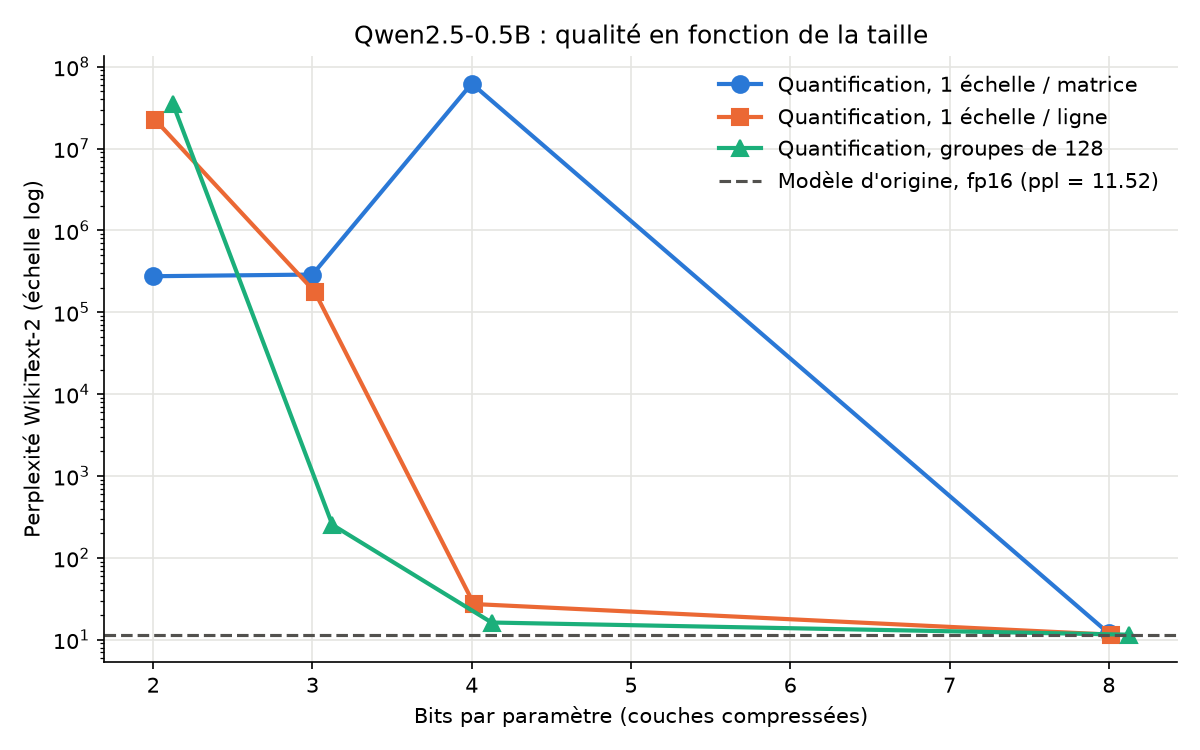
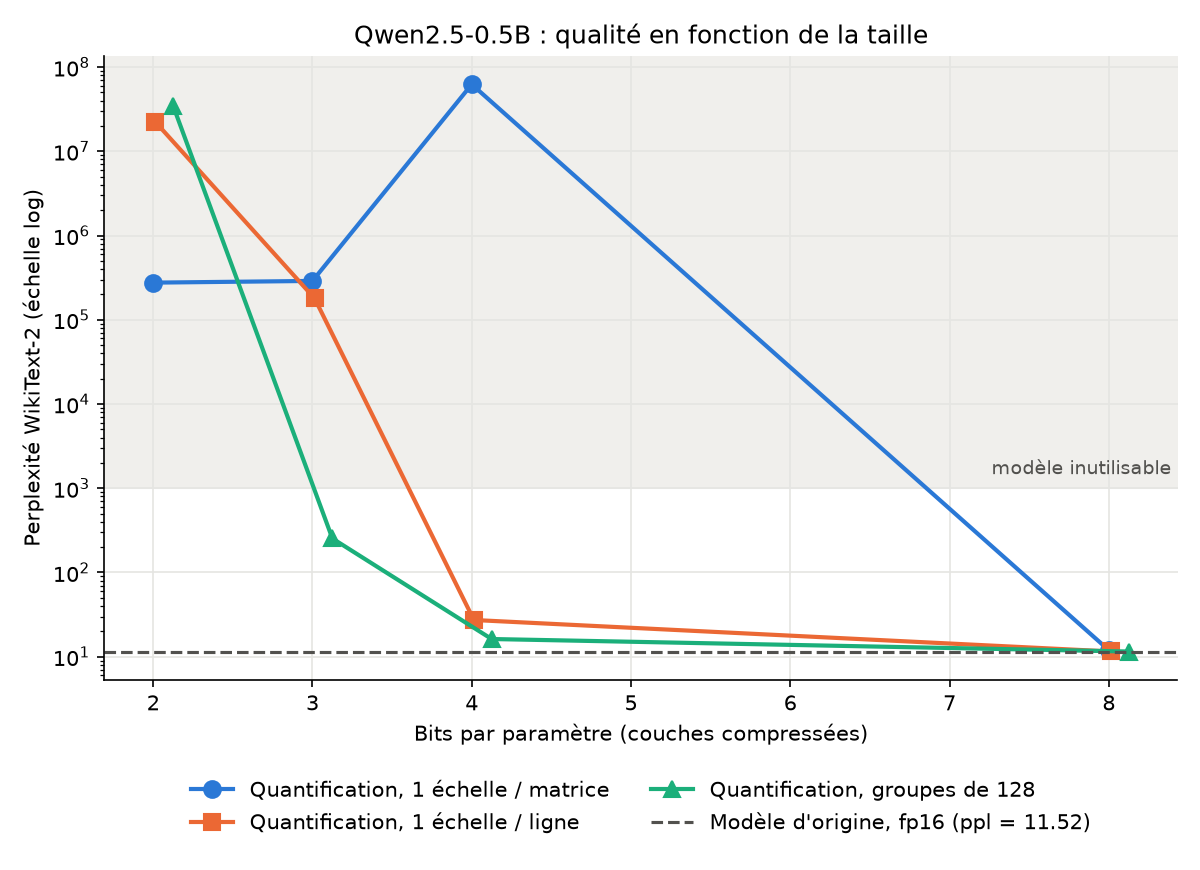
README : question, méthode, résultats et analyse
- résumé en anglais, méthode, résultats de la quantification,
  analyse des poids, échauffement MNIST, limites, reproduction
- courbe : zone « modèle inutilisable » au-delà d'une perplexité de 1 000

diff --git a/scripts/plot.py b/scripts/plot.py
@@ -18,6 +18,7 @@ SERIES = [
     ("quant", "128", "Quantification, groupes de 128", "#1baf7a", "^"),
     ("lowrank", None, "Rang faible (SVD tronquée)", "#eda100", "D"),
 ]
+UNUSABLE_PPL = 1000
 
 
 def main():
@@ -30,7 +31,7 @@ def main():
              if not os.path.basename(f).startswith("quick_")]
     df = pd.concat([pd.read_csv(f, dtype={"granularity": str}) for f in files])
 
-    fig, ax = plt.subplots(figsize=(8, 5))
+    fig, ax = plt.subplots(figsize=(8, 5.8))
     for method, gran, label, color, marker in SERIES:
         rows = df[df.method == method]
         if gran is not None:
@@ -47,13 +48,21 @@ def main():
         ax.axhline(ppl, color="#52514e", linestyle="--", linewidth=1.5,
                    label=f"Modèle d'origine, fp16 (ppl = {ppl:.2f})")
 
+    # Au-delà de ~1000, le modèle ne produit plus que du bruit : les écarts
+    # entre configurations n'y ont plus de sens.
     ax.set_yscale("log")
+    ymin, ymax = ax.get_ylim()
+    ax.axhspan(UNUSABLE_PPL, ymax, color="#f0efec", zorder=0)
+    ax.set_ylim(ymin, ymax)
+    ax.text(ax.get_xlim()[1], UNUSABLE_PPL * 1.3, "modèle inutilisable ",
+            color="#52514e", fontsize=9, ha="right", va="bottom")
+
     ax.set_xlabel("Bits par paramètre (couches compressées)")
     ax.set_ylabel("Perplexité WikiText-2 (échelle log)")
     ax.set_title("Qwen2.5-0.5B : qualité en fonction de la taille")
     ax.grid(True, which="major", color="#e5e5e2", linewidth=0.8)
     ax.spines[["top", "right"]].set_visible(False)
-    ax.legend(frameon=False)
+    ax.legend(frameon=False, loc="upper center", bbox_to_anchor=(0.5, -0.13), ncol=2)
     fig.tight_layout()
 
     os.makedirs(os.path.dirname(args.out), exist_ok=True)

diff --git a/README.md b/README.md
@@ -1,0 +1,128 @@
+# Compresser un petit LLM : quantification ou rang faible ?
+
+> **In English.** How much quality does a small LLM (Qwen2.5-0.5B) lose when its weights are compressed? I implemented two methods from scratch, symmetric quantization (8 to 2 bits, per tensor / row / group of 128) and truncated-SVD low-rank approximation, and measured WikiText-2 perplexity. Quantization with groups of 128 is nearly lossless at 8 bits and remains usable at 4 bits (perplexity 16.2 vs 11.5); one scale per matrix fails because LLM weights contain extreme outliers (up to 64 standard deviations). The weight spectra suggest that low-rank approximation will degrade much faster: most MLP layers are almost as "flat" as a random matrix. *Work in progress: the low-rank run on Qwen is next.*
+
+## La question
+
+Un LLM stocke ses poids en 16 bits. Pour le faire tenir sur une machine plus modeste, on peut :
+
+- **quantifier** : garder tous les poids, mais chacun sur moins de bits (8, 4, 3 ou 2) ;
+- **approximer par une matrice de rang faible** : garder des poids en 16 bits, mais beaucoup moins nombreux.
+
+**À taille égale, quelle méthode abîme le moins le modèle, et pourquoi ?**
+
+## Méthode
+
+| Élément | Choix |
+| --- | --- |
+| Modèle | [Qwen2.5-0.5B](https://huggingface.co/Qwen/Qwen2.5-0.5B) en fp16 (494 M de paramètres, 24 blocs) |
+| Couches compressées | les 7 matrices de chaque bloc (`q`, `k`, `v`, `o`, `gate`, `up`, `down`), soit 168 matrices ; embeddings non touchés |
+| Qualité | perplexité sur WikiText-2 (partie test, 299 078 tokens), fenêtre glissante de 2 048 tokens avec un pas de 512 |
+| Taille | bits par paramètre des couches compressées, échelles de quantification comprises |
+
+**Quantification symétrique** ([src/quant.py](src/quant.py)). Chaque poids est remplacé par le point le plus proche d'une grille de 2^b valeurs :
+
+$$q_{\max} = 2^{b-1} - 1, \qquad s = \frac{\max |w_{\text{groupe}}|}{q_{\max}}, \qquad \hat{w} = s \cdot \operatorname{clamp}\left(\operatorname{round}(w / s),\, -q_{\max} - 1,\, q_{\max}\right)$$
+
+L'échelle s est calculée pour toute la matrice (`tensor`), pour chaque ligne (`row`) ou pour chaque groupe de 128 poids consécutifs (`128`). Chaque échelle coûte 16 bits : b + 16/128 bits par poids pour des groupes de 128.
+
+**Rang faible** ([src/lowrank.py](src/lowrank.py)). Chaque matrice W (m × n) est remplacée par sa SVD tronquée aux r plus grandes valeurs singulières, qui coûte r(m + n) paramètres au lieu de mn. Le rang est choisi pour garder une fraction `rank_ratio` des paramètres : r = ⌊rank_ratio · mn / (m + n)⌋.
+
+La compression est **simulée** : les poids compressés sont reconvertis en fp16 pour l'évaluation, et la taille gagnée est calculée à part ([src/budget.py](src/budget.py)).
+
+## Résultats
+
+### Quantification
+
+![Perplexité en fonction des bits par paramètre](figures/ppl_vs_bits.png)
+
+Perplexité WikiText-2 (modèle d'origine : **11,52**) :
+
+| Bits | 1 échelle / matrice | 1 échelle / ligne | Groupes de 128 |
+| --- | --- | --- | --- |
+| 8 | 11,96 | 11,54 | **11,53** |
+| 4 | 6,2 × 10⁷ | 27,3 | **16,2** |
+| 3 | 2,9 × 10⁵ | 1,8 × 10⁵ | **253** |
+| 2 | 2,8 × 10⁵ | 2,2 × 10⁷ | 3,5 × 10⁷ |
+
+Au-delà d'une perplexité d'environ 1 000, le modèle ne produit plus que du bruit et les écarts entre configurations n'ont plus de sens.
+
+### Poids extrêmes
+
+![Rapport max|w| / écart-type par couche](figures/outliers.png)
+
+Pour chaque matrice, le rapport entre le plus grand poids (en valeur absolue) et l'écart-type des poids. Une matrice gaussienne de même taille donne 4,7. Dans Qwen, les couches MLP et `o_proj` sont entre 15 et 45, avec un maximum de 64 (bloc 8, `q_proj`) ; `k_proj` et `v_proj` restent entre 5 et 12.
+
+### Spectre des valeurs singulières
+
+![Spectre des valeurs singulières](figures/spectrum.png)
+
+Valeurs singulières σᵢ / σ₁, triées, pour trois types de couches au début, au milieu et à la fin du modèle, comparées à une matrice aléatoire de même forme. Part de l'énergie (Σσ²) conservée par la SVD tronquée avec `rank_ratio` = 0,5 :
+
+| Couche | Bloc 0 | Bloc 12 | Bloc 23 | Matrice aléatoire |
+| --- | --- | --- | --- | --- |
+| `q_proj` | 99 % | 83 % | 89 % | 62 % |
+| `v_proj` | 76 % | 57 % | 78 % | 59 % |
+| `down_proj` | 61 % | 72 % | 66 % | 60 % |
+
+### Échauffement : un MLP sur MNIST
+
+Avant le LLM, les deux fonctions ont été testées sur un petit réseau (784 → 256 → 256 → 10, précision de référence 97,6 %), à taille égale :
+
+| Bits par poids | Quantification (groupes de 16) | Rang faible |
+| --- | --- | --- |
+| 8 | 97,6 % | 75,4 % (`rank_ratio` = 0,5) |
+| 4 | 97,5 % | 32,5 % (`rank_ratio` = 0,25) |
+
+## Ce qu'on observe et pourquoi
+
+**En bref : la quantification par petits groupes est la méthode robuste ; le rang faible devrait s'effondrer, car l'information des poids est répartie sur presque toutes les directions.**
+
+**Quantification.** Le modèle ne perd presque rien en 8 bits (11,53 contre 11,52). En 4 bits, tout dépend de la granularité : 16,2 avec des groupes de 128, alors qu'une seule échelle par matrice détruit le modèle. La cause : des poids extrêmes, jusqu'à 64 écarts-types dans Qwen, qui élargissent les crans de tout leur groupe. Des groupes plus petits limitent les poids pénalisés. En 3 bits, même les groupes de 128 ne suffisent plus.
+
+**Rang faible.** Les spectres de `down_proj` et `v_proj` sont presque aussi plats que celui d'une matrice aléatoire : toutes les directions portent une information comparable, et en supprimer devrait coûter cher, surtout dans le MLP, qui représente environ 88 % des poids. `q_proj`, nettement de rang faible, fait exception. Sur MNIST, le rang faible s'effondrait déjà bien plus vite que la quantification ; la grille sur Qwen confirmera ou non.
+
+**Deux erreurs de nature différente.** La quantification ajoute un petit bruit à tous les poids, que le modèle tolère tant qu'il reste assez de bits ; le rang faible supprime des directions entières.
+
+## Limites
+
+- **Compression simulée** : les poids sont reconvertis en fp16 ; on mesure la qualité, pas le gain réel en mémoire ni en vitesse.
+- **Une seule mesure de qualité** : la perplexité sur WikiText-2, pas les performances sur des tâches.
+- **Un seul modèle**, de petite taille : les conclusions peuvent différer sur des modèles plus gros.
+- **Méthodes de base** : arrondi au plus proche, sans calibration sur des données ni correction d'erreur.
+- **Perplexité non directement comparable aux articles** : la fenêtre glissante donne plus de contexte à chaque token qu'une évaluation par fenêtres disjointes, donc une perplexité plus basse.
+
+## En cours
+
+- [x] Quantification : grille complète sur Qwen
+- [x] Analyse des poids : valeurs extrêmes et spectre
+- [ ] Rang faible : grille `rank_ratio` ∈ {0,9 ; 0,75 ; 0,5 ; 0,25} sur Qwen, sur le même graphique
+
+## Reproduire
+
+```bash
+pip install -r requirements.txt
+pytest                                   # tests des deux fonctions de compression
+python -m scripts.mnist_warmup           # échauffement MNIST (CPU, ~1 min)
+python -m scripts.analyze_weights        # poids extrêmes et spectre (CPU, ~1 min)
+python -m scripts.run_quant              # grille de quantification (GPU, ~1 h sur T4)
+python -m scripts.plot                   # courbe à partir de results/*.csv
+```
+
+Sur Google Colab (GPU T4 gratuit) : [notebooks/colab.ipynb](notebooks/colab.ipynb). Les résultats sont écrits sur Google Drive au fur et à mesure, et une expérience déjà présente dans le CSV n'est pas relancée.
+
+## Structure
+
+```
+src/
+  quant.py          quantize() : quantification symétrique
+  lowrank.py        lowrank_approx() : SVD tronquée
+  apply.py          applique une fonction de compression aux 168 matrices
+  eval_ppl.py       chargement du modèle et perplexité WikiText-2
+  budget.py         bits par paramètre de chaque configuration
+  results.py        lecture et écriture des CSV
+scripts/            expériences, analyse des poids, graphiques
+tests/              tests unitaires des deux fonctions
+results/            un CSV par grille, une ligne par expérience
+figures/            graphiques
+```
